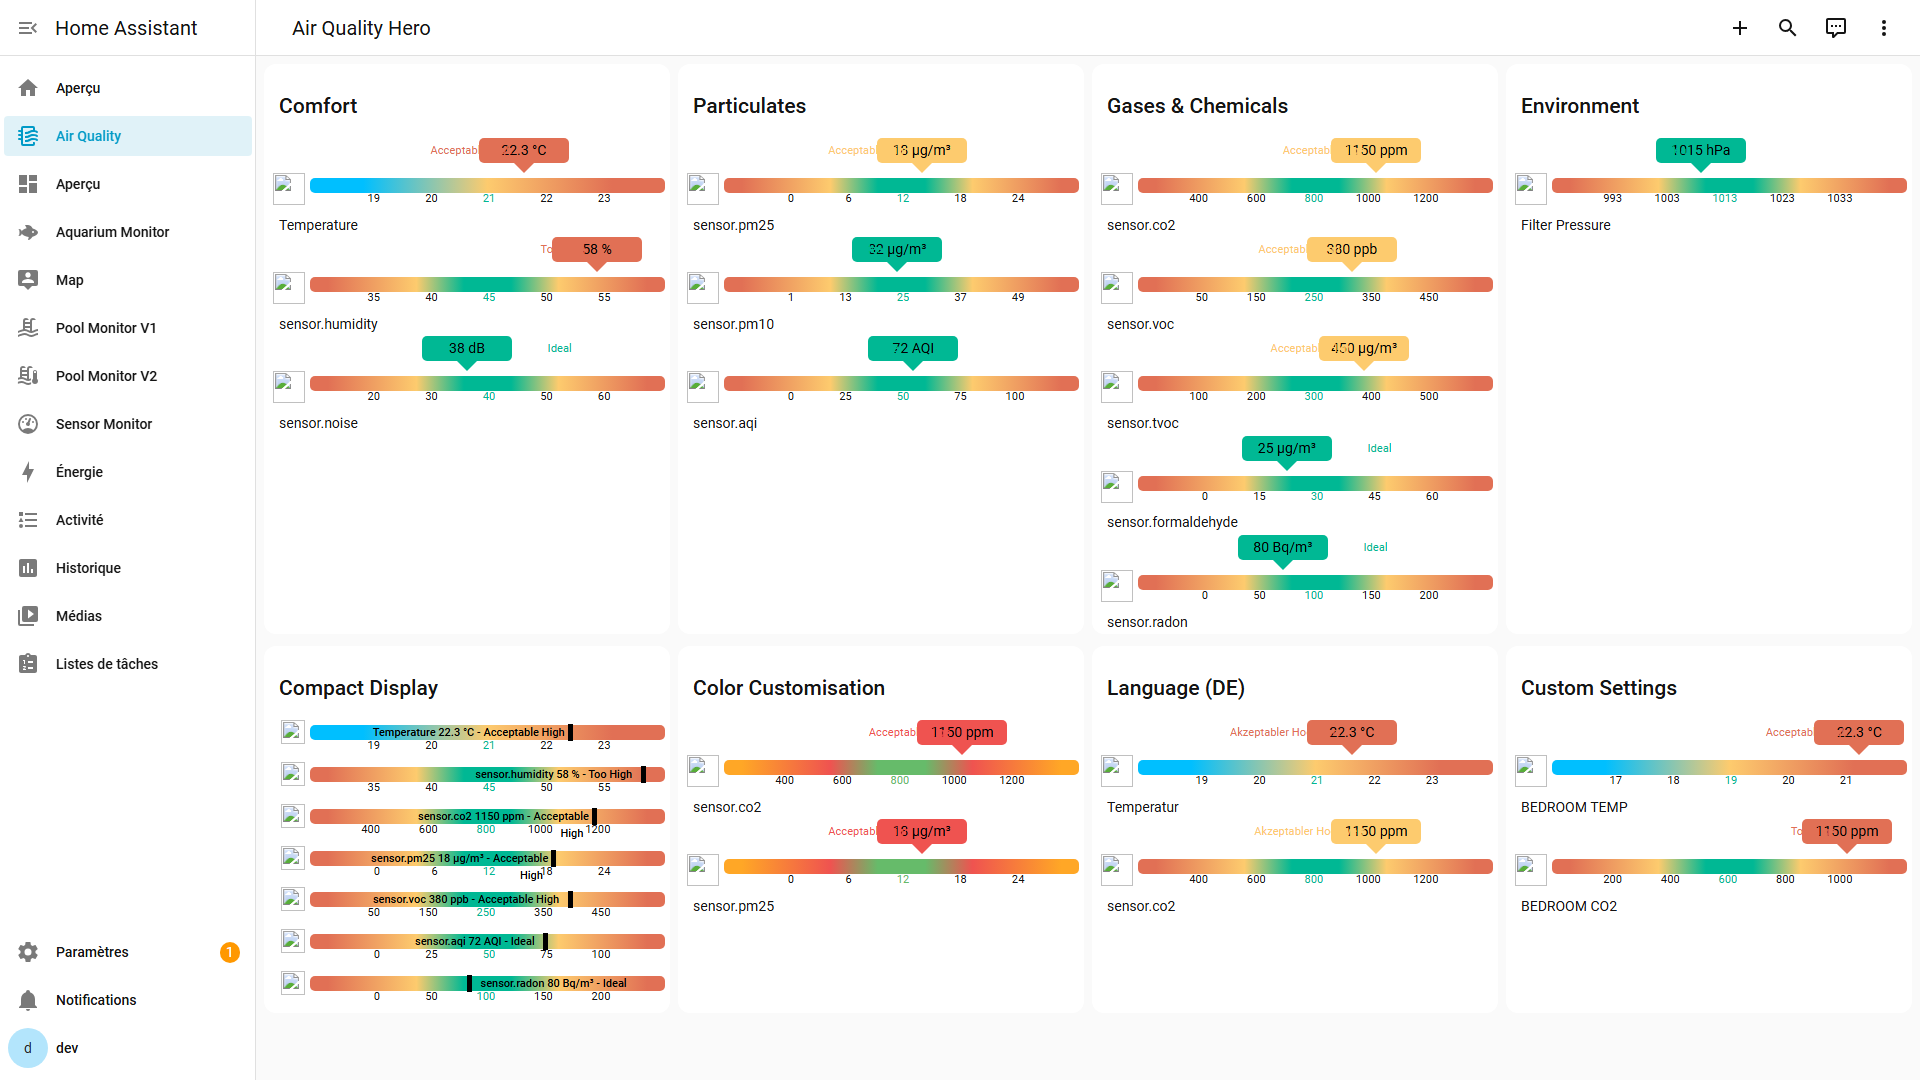
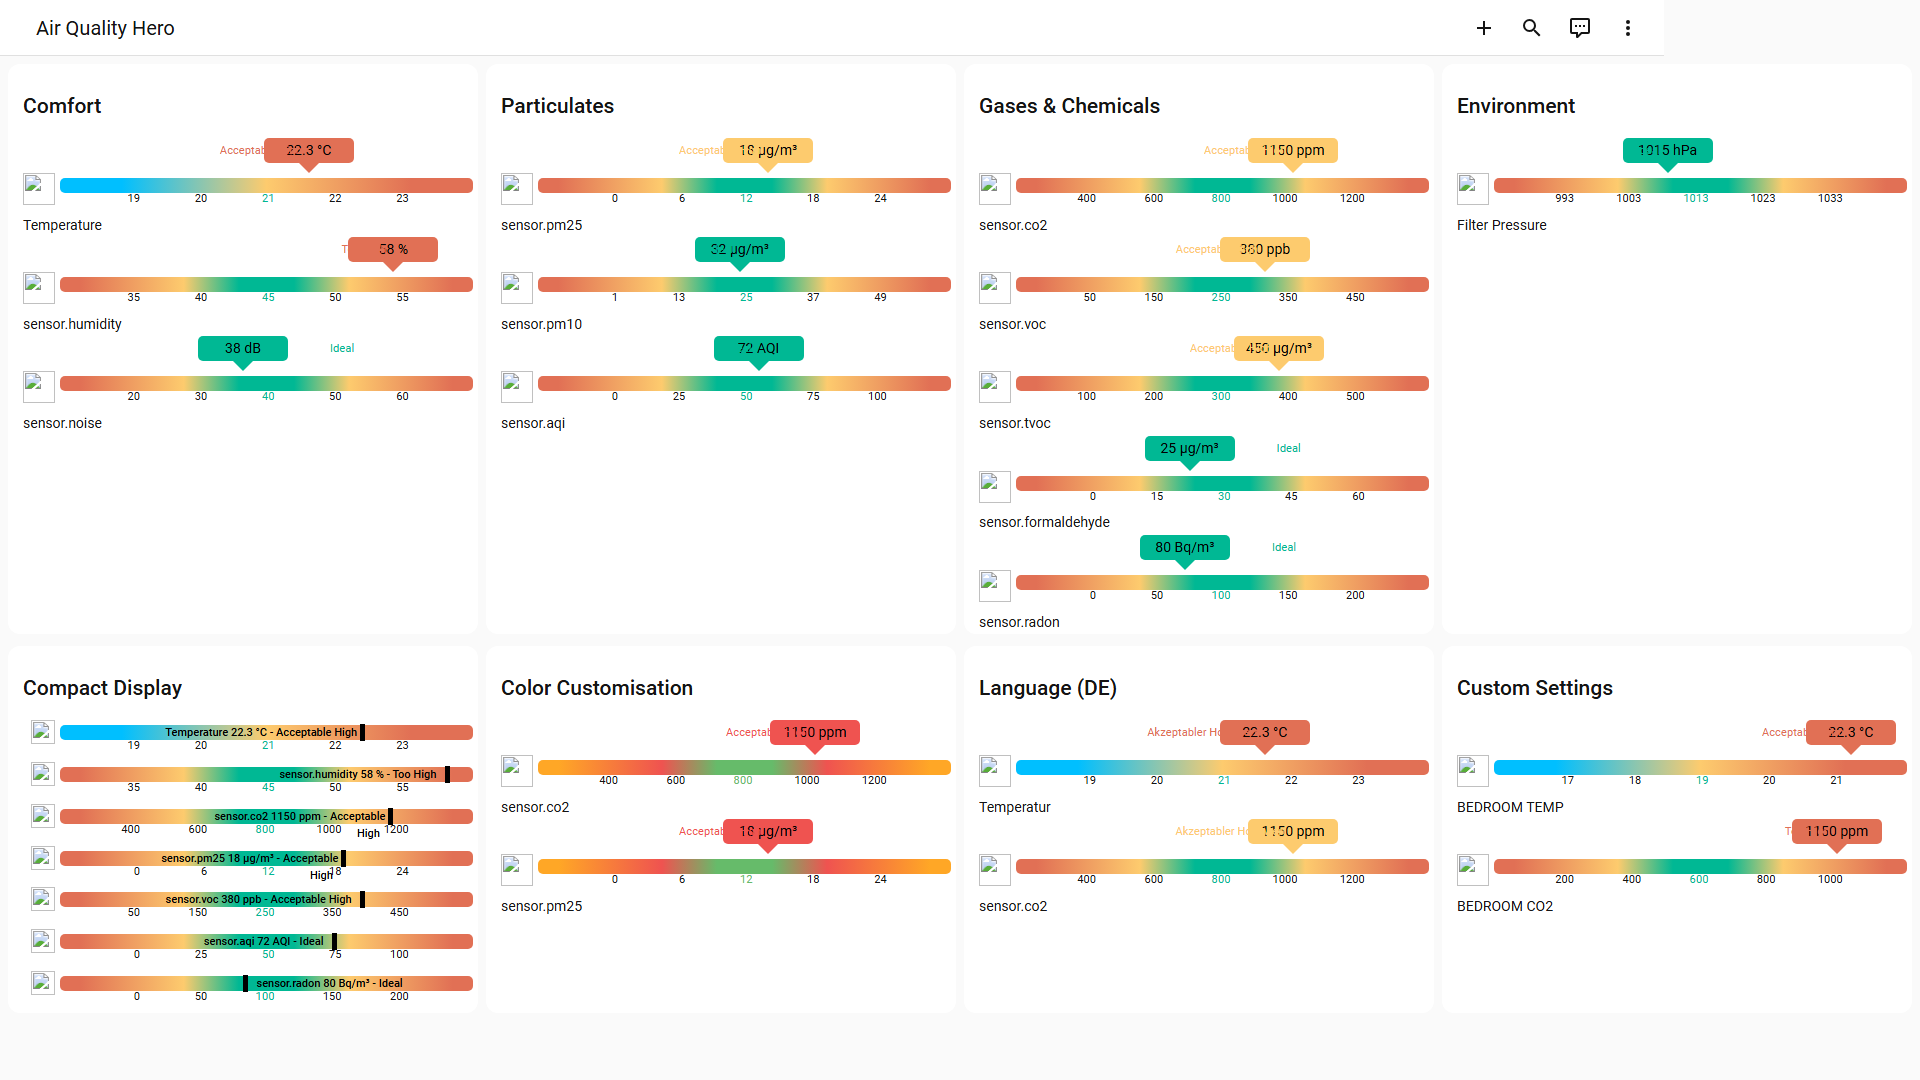
docs: add sensor keys to tables, update hero screenshot

diff --git a/README.md b/README.md
@@ -34,41 +34,41 @@ Every sensor comes with **preset ideal ranges** — just point to your entity an
 
 *Temperature, humidity, and noise directly affect how comfortable you feel at home.*
 
-| Sensor | Unit | Default Setpoint |
-|--------|------|:----------------:|
-| Temperature | °C | 21 |
-| Humidity | % | 45 |
-| Noise Level | dB | 40 |
+| Sensor | Key | Unit | Default Setpoint |
+|--------|-----|------|:----------------:|
+| Temperature | `temperature` | °C | 21 |
+| Humidity | `humidity` | % | 45 |
+| Noise Level | `noise` | dB | 40 |
 
 ### Particulates
 
 *Fine particles penetrate deep into lungs. PM2.5 is the most health-critical air metric.*
 
-| Sensor | Unit | Default Setpoint |
-|--------|------|:----------------:|
-| PM2.5 | µg/m³ | 12 |
-| PM10 | µg/m³ | 25 |
-| Air Quality Index | AQI | 50 |
+| Sensor | Key | Unit | Default Setpoint |
+|--------|-----|------|:----------------:|
+| PM2.5 | `pm25` | µg/m³ | 12 |
+| PM10 | `pm10` | µg/m³ | 25 |
+| Air Quality Index | `aqi` | AQI | 50 |
 
 ### Gases & Chemicals
 
 *CO2 indicates ventilation quality. VOCs and formaldehyde signal chemical pollution.*
 
-| Sensor | Unit | Default Setpoint |
-|--------|------|:----------------:|
-| CO2 | ppm | 800 |
-| VOC | ppb | 250 |
-| TVOC | µg/m³ | 300 |
-| Formaldehyde | µg/m³ | 30 |
-| Radon | Bq/m³ | 100 |
+| Sensor | Key | Unit | Default Setpoint |
+|--------|-----|------|:----------------:|
+| CO2 | `co2` | ppm | 800 |
+| VOC | `voc` | ppb | 250 |
+| TVOC | `tvoc` | µg/m³ | 300 |
+| Formaldehyde | `formaldehyde` | µg/m³ | 30 |
+| Radon | `radon` | Bq/m³ | 100 |
 
 ### Environment
 
 *Atmospheric pressure changes can trigger migraines and affect weather-sensitive people.*
 
-| Sensor | Unit | Default Setpoint |
-|--------|------|:----------------:|
-| Atmospheric Pressure | hPa | 1013 |
+| Sensor | Key | Unit | Default Setpoint |
+|--------|-----|------|:----------------:|
+| Atmospheric Pressure | `pressure` | hPa | 1013 |
 
 For detailed explanations of each sensor and why it matters, see [Sensor Details](docs/sensors.md).
 
